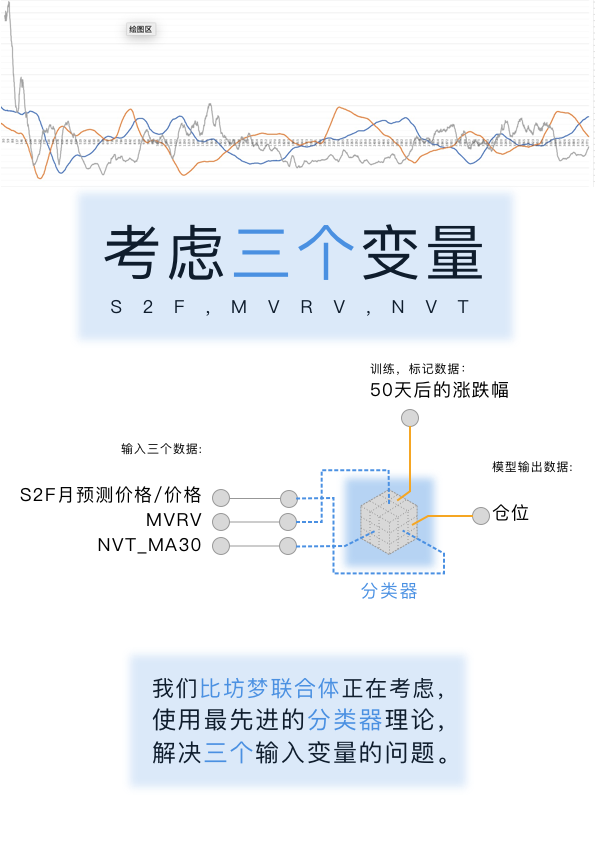
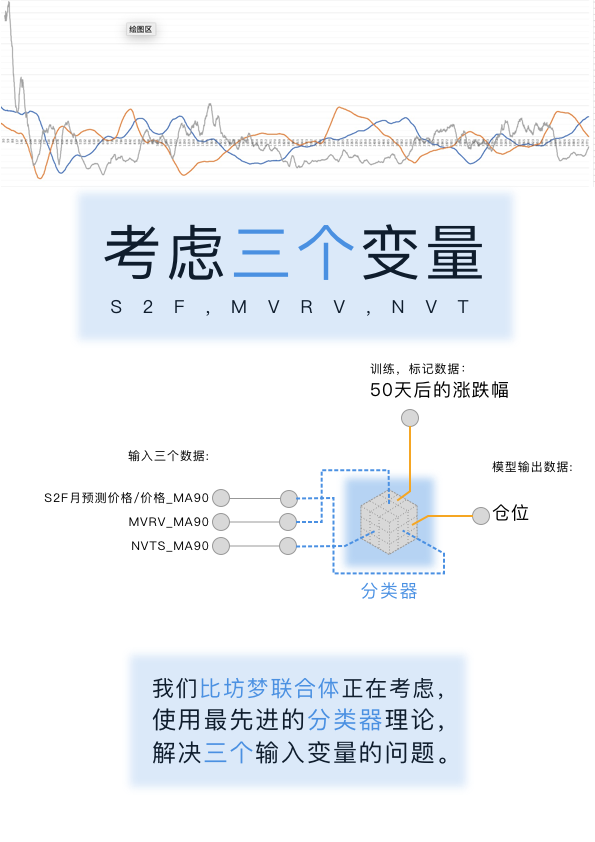
GitBook: [master] 130 pages and one asset modified

Changed region(s): [[0.0303, 0.5249, 0.363, 0.6793]]

diff --git a/qian-xian/yu-zhou-mo-fang-hui-gui-fen-xi.md b/qian-xian/yu-zhou-mo-fang-hui-gui-fen-xi.md
@@ -35,7 +35,7 @@ description: Te-s-r-act，是 TensorAct，还是 Tesseract ?
 
 使用的方法是逻辑回归LR，使用的激活函数是sigmoid函数
 
-三维空间，指的是 MVRV，S2F月预测价格/价格，NVT的90日均线， 这三个变量，经过规整化，90%概率分布于（-1，1）后，构成的空间，
+三维空间，指的是 MVRV的90日均线，S2F月预测价格/价格的90日均线，NVT的90日均线， 这三个变量，经过规整化，90%概率分布于（-1，1）后，构成的空间，
 
 喂进去的训练数据是，经过数学处理，90%概率分布于（-1，2）的，基于（50天后的涨跌幅分布）的训练数据。
 
